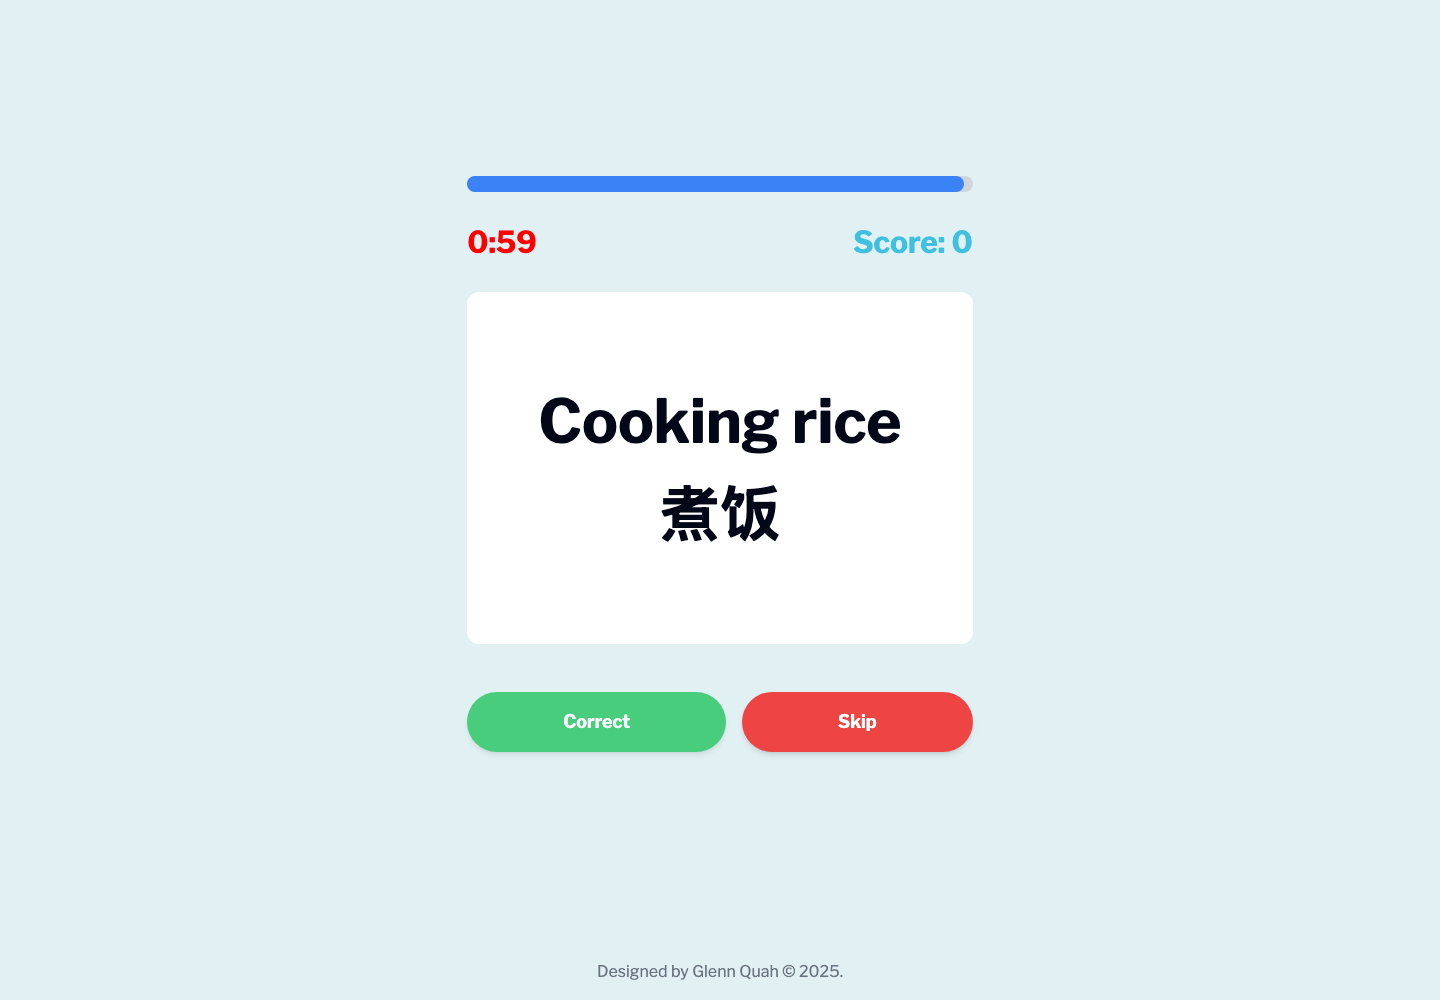
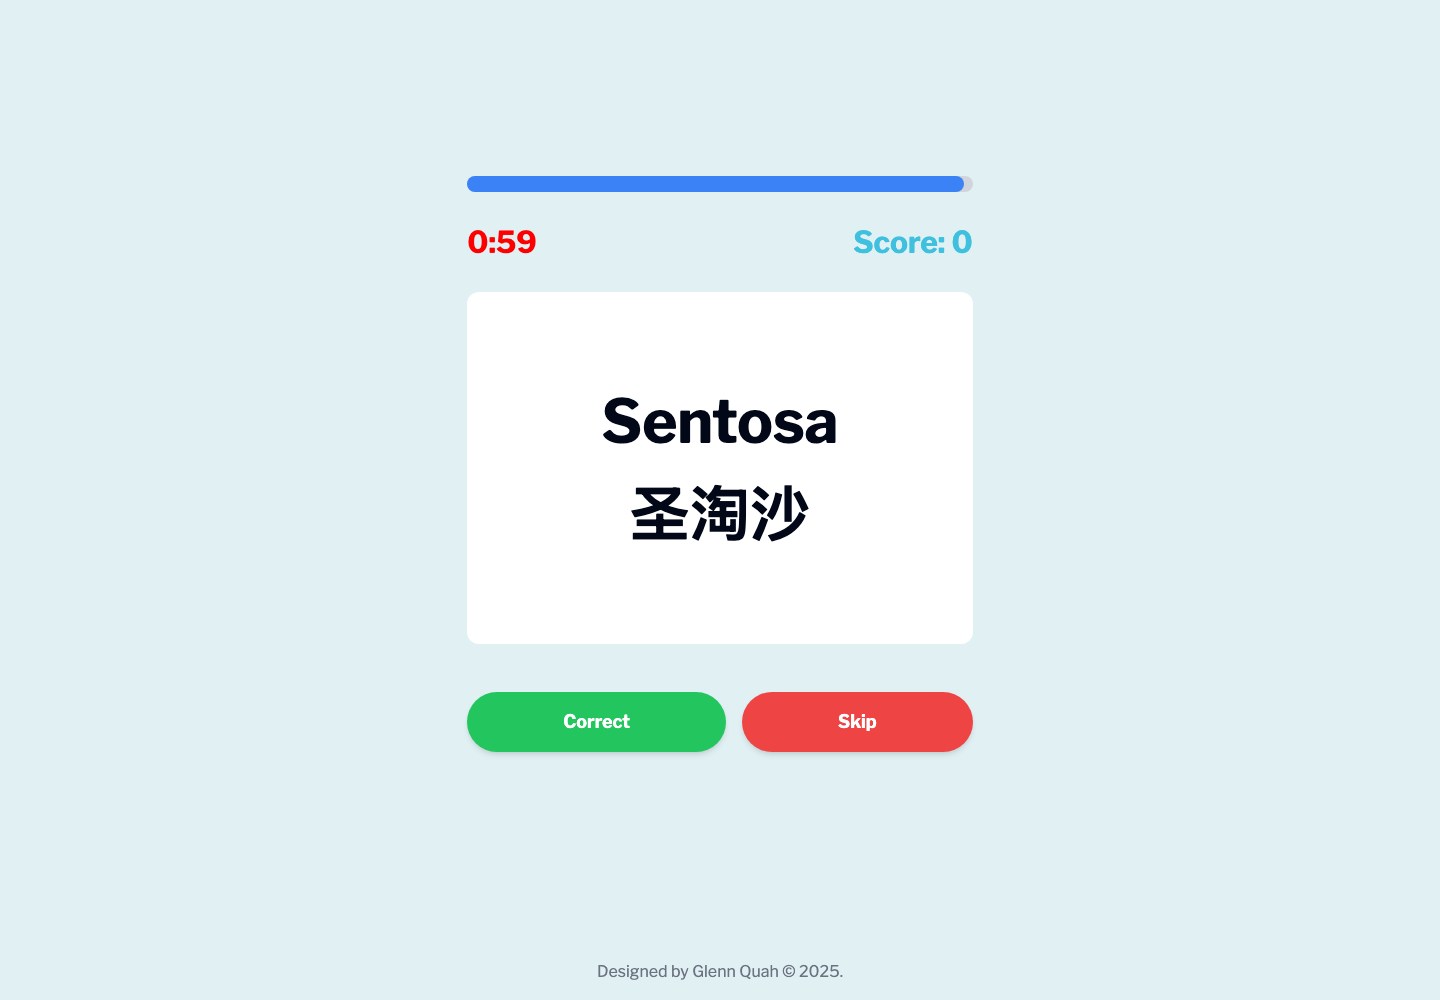
Refresh live game screenshots and document the public word editor

Changed region(s): [[0.375, 0.403, 0.625, 0.558], [0.3125, 0.682, 0.5, 0.775]]

diff --git a/tests/live/screenshots.spec.ts b/tests/live/screenshots.spec.ts
@@ -35,18 +35,15 @@ test('capture Jamboree and its public word-management portal', async ({ page }) 
   await page.getByRole('button', { name: 'Continue' }).click()
   await expect(page.getByRole('button', { name: 'Correct', exact: true })).toBeVisible()
   await capture('game')
-  // Advance only the client timer; no scores are submitted.
-  await page.clock.install()
-  for (let second = 0; second < 65; second++) await page.clock.fastForward(1000)
-  await expect(page.getByText('Game Over!', { exact: true })).toBeVisible()
+  // Let the real round finish without submitting a score.
+  await expect(page.getByText('Game Over!', { exact: true })).toBeVisible({ timeout: 70_000 })
   await capture('results')
-  await page.clock.resume()
   await page.goto('/admin')
   await expect(page.getByRole('heading', { name: 'Admin Panel' })).toBeVisible()
   await capture('admin')
   const deck = page.locator('div.bg-white').filter({ has: page.getByRole('heading', { name: topic!.name, exact: true }) }).first()
   await deck.getByRole('button', { name: 'Show Words', exact: true }).click()
-  await deck.getByRole('heading', { name: 'Add New Word' }).scrollIntoViewIfNeeded()
+  await deck.evaluate(element => window.scrollTo(0, element.getBoundingClientRect().top + window.scrollY + 180))
   await capture('admin-words', false)
   await page.getByRole('button', { name: `Edit word ${topic!.words[0].id}`, exact: true }).click()
   await expect(page.getByRole('heading', { name: 'Edit Word', exact: true })).toBeVisible()

diff --git a/README.md b/README.md
@@ -21,7 +21,7 @@ A multilingual charades game inspired by Singapore’s everyday life and culture
 
 ![Results after a round](docs/screenshots/results.png)
 
-Screenshots were captured with Playwright using original sample prompts, without production records or participant information. These show the app interface, rather than photographs of gatherings.
+Screenshots were captured with Playwright against the running game database. They show actual decks and prompts, with no participant names or leaderboard records. These are app screenshots rather than photographs of gatherings.
 
 ## Run locally
 
@@ -54,6 +54,15 @@ Open http://localhost:8080. Without configuration, the app displays setup instru
 The `/admin` dashboard is public and does not require sign-in. Anyone with access can add, edit, or delete shared decks and words. The supplied database policies intentionally allow these operations. Use a separate Supabase project for your own instance and keep backups of event decks.
 
 Use **Add New Deck** to create a deck with its description and instructions. Select **Show Words** on a deck to view its prompts, add translations in English, Chinese, Hokkien, or Cantonese, and use each word's pencil button to adjust translations. The deck's pencil button edits its name, description, and instructions. Delete buttons remove the selected word or deck.
+
+![Public admin portal for managing decks](docs/screenshots/admin.png)
+
+| Browse and add words | Adjust translations |
+| --- | --- |
+| ![Expanded deck with word-management controls](docs/screenshots/admin-words.png) | ![Edit a word in all four languages](docs/screenshots/admin-edit-word.png) |
+
+![Edit a deck's name, description, and instructions](docs/screenshots/admin-edit-deck.png)
+
 
 The migration targets fresh databases. Existing deployments should review their policies separately before adapting this schema.
 
